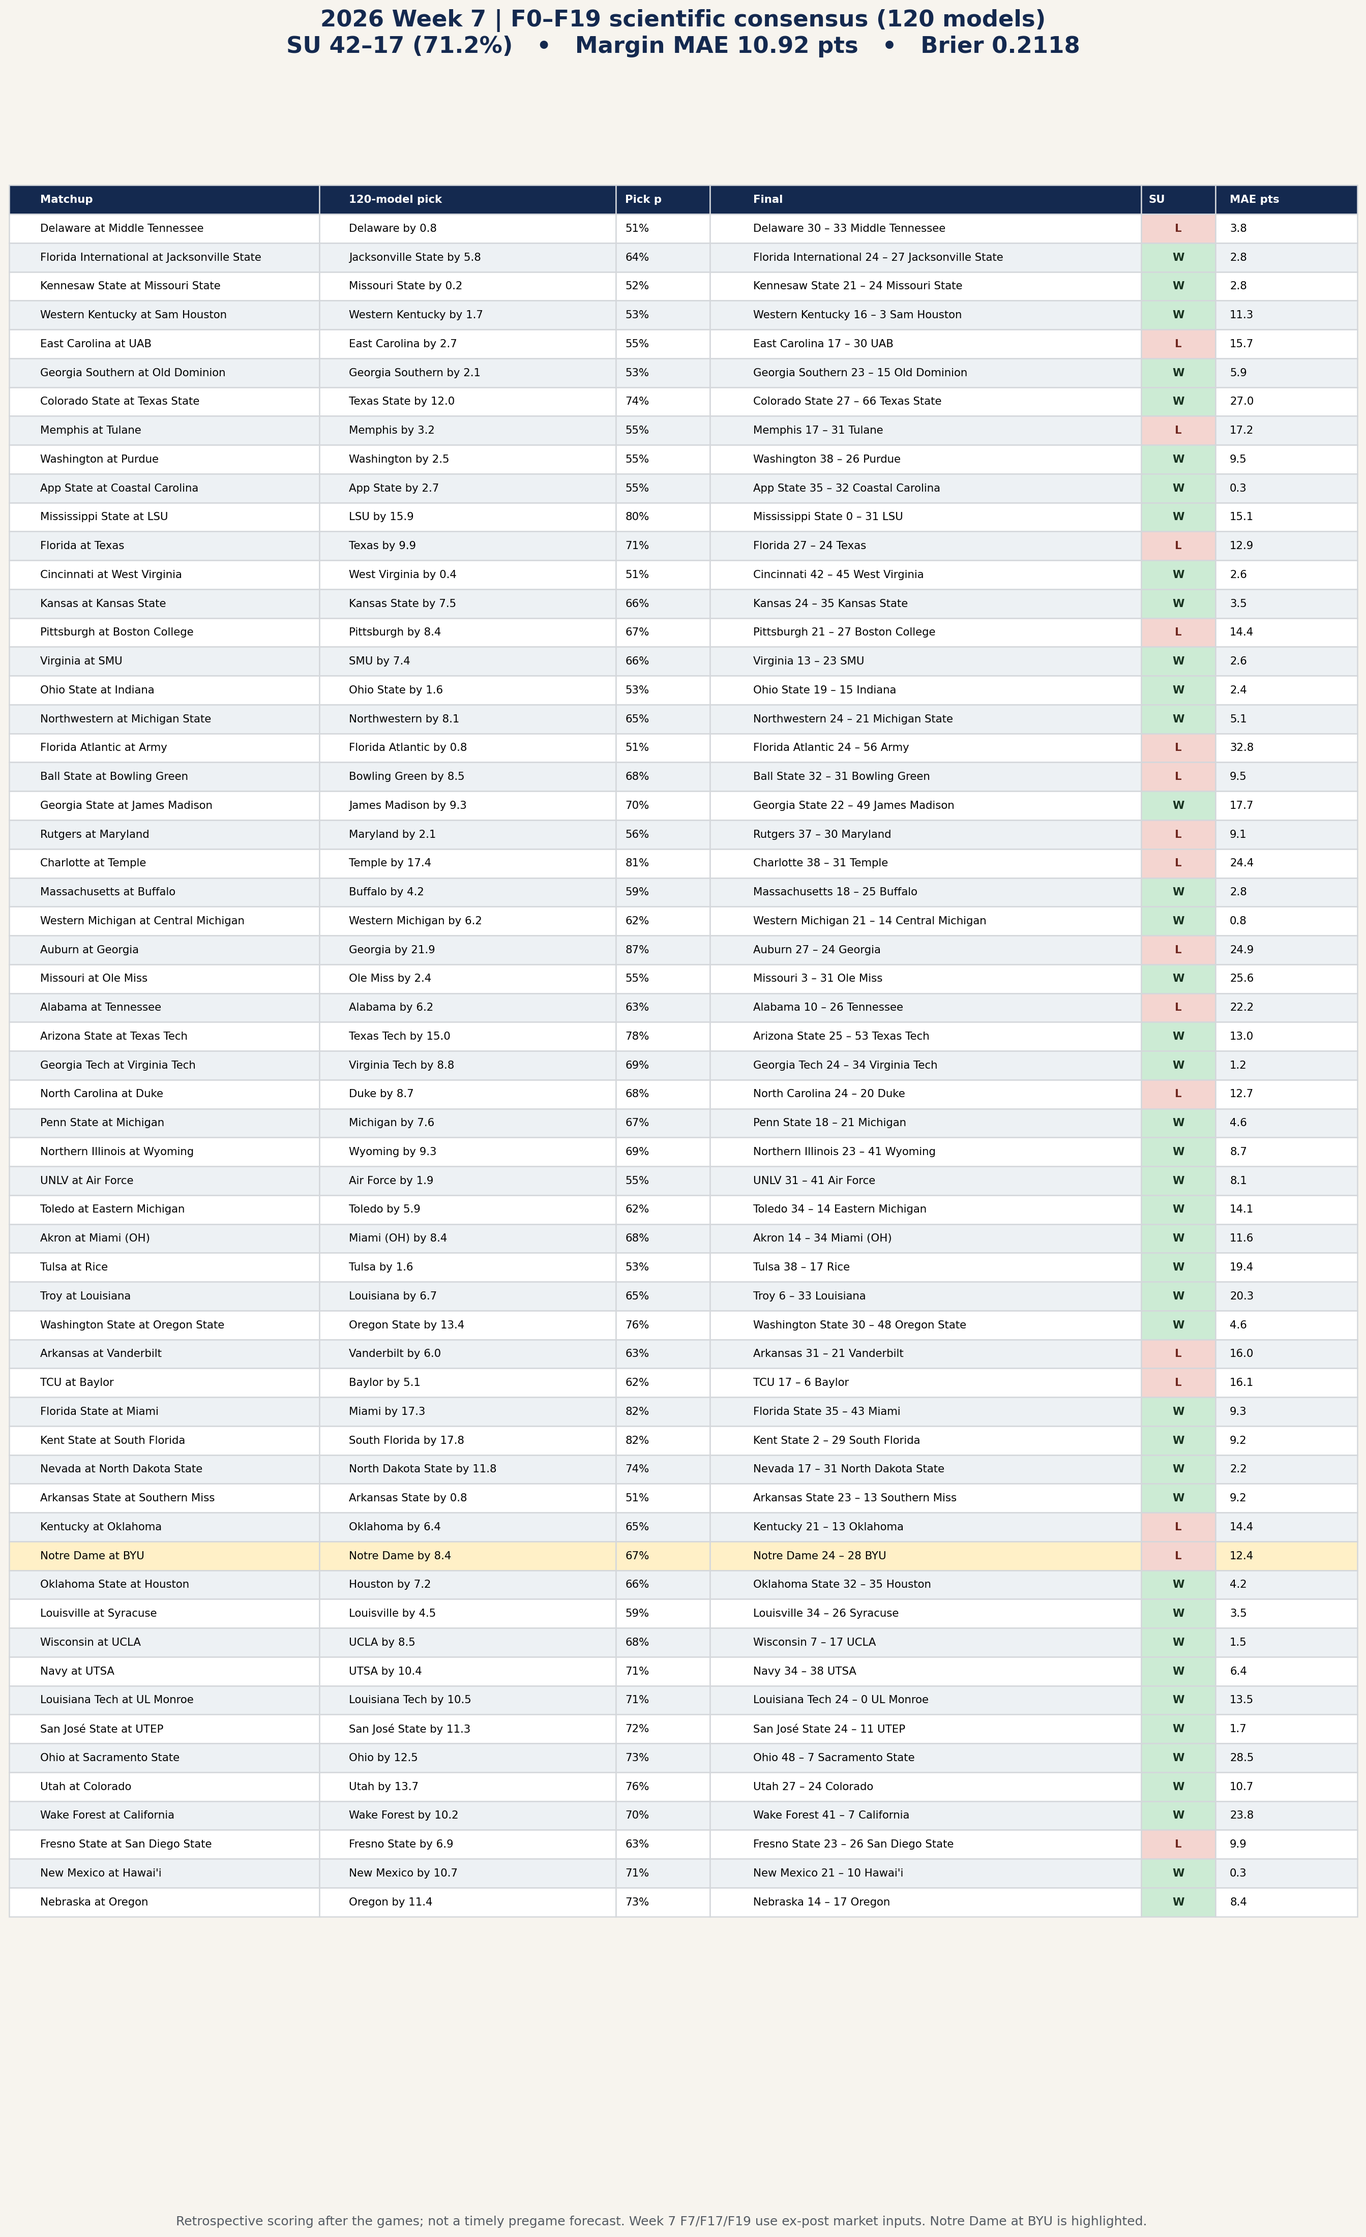
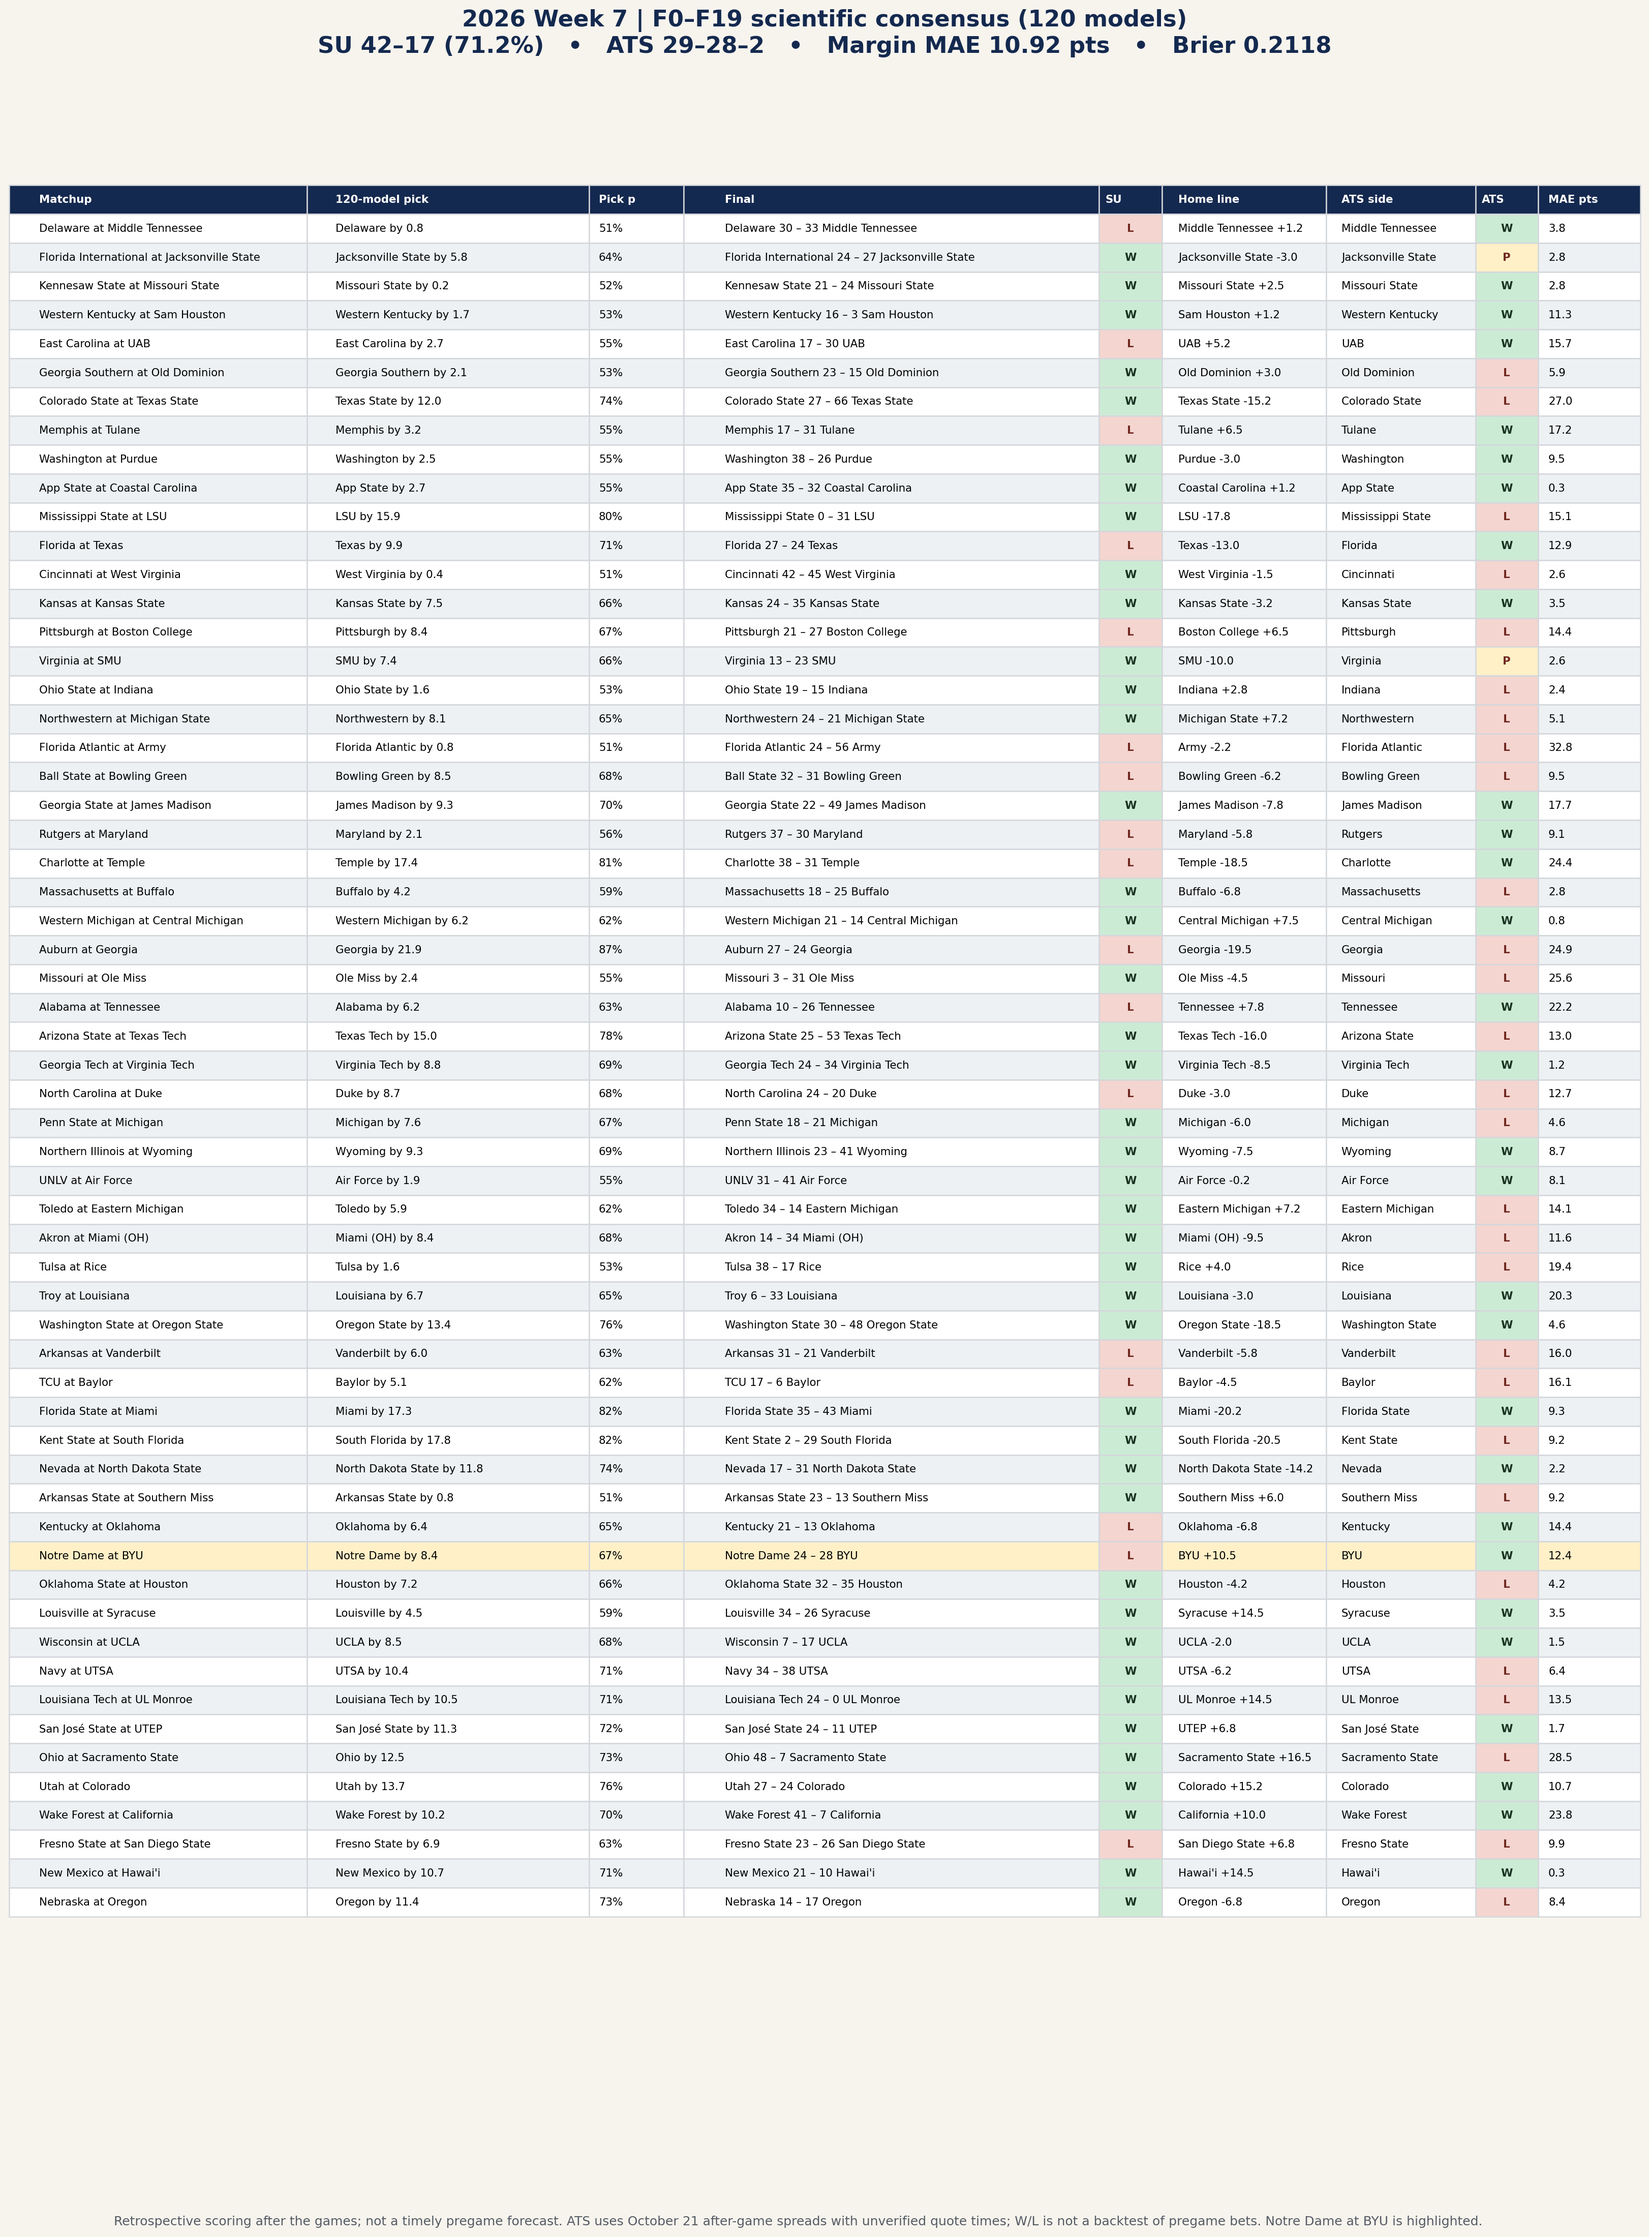
Add Week 7 ATS grading and align full scientific scorecard

diff --git a/scripts/publication/plot_2026_week07_120_consensus_scorecard.py b/scripts/publication/plot_2026_week07_120_consensus_scorecard.py
@@ -15,6 +15,7 @@ REPLAY = ROOT / "publication/2026/week_07/post_game/retrospective_replay"
 SCORED = REPLAY / "cumulative/scientific_f0_f19/common_120_consensus_game_results.csv"
 GAMES = REPLAY / "week07_replay_consensus_games.csv"
 OUTPUT = REPLAY / "scientific/full_f0_f19"
+MARKET = OUTPUT / "f17_f19_market_snapshot.parquet"
 
 
 def main() -> None:
@@ -30,6 +31,13 @@ def main() -> None:
         raise ValueError("Notre Dame at BYU is missing")
     if not (card.actual_home_margin == card.home_points - card.away_points).all():
         raise ValueError("Stored outcomes and game results disagree")
+    lines = pd.read_parquet(MARKET)[
+        ["target_game_id", "market_home_spread", "market_provenance"]
+    ].rename(columns={"target_game_id": "game_id"})
+    lines = lines.loc[lines.market_provenance.eq("ex_post_oct21_cache_unverified_quote_time")]
+    card = card.merge(lines, on="game_id", validate="one_to_one")
+    if len(card) != 59 or card.market_home_spread.isna().any():
+        raise ValueError("The 59 Week 7 retrospective market spreads are incomplete")
 
     card["predicted_winner"] = card.home_team.where(card.pred_home_margin.ge(0), card.away_team)
     card["predicted_winner_probability"] = card.pred_home_win_probability.where(
@@ -45,21 +53,40 @@ def main() -> None:
     card["su"] = card.winner_correct.map({True: "W", False: "L"})
     card["margin_error_points"] = card.margin_error.map("{:.1f}".format)
     card["pick_confidence"] = card.predicted_winner_probability.map("{:.0%}".format)
+    model_cover_margin = card.pred_home_margin + card.market_home_spread
+    actual_cover_margin = card.actual_home_margin + card.market_home_spread
+    card["ats_side"] = card.home_team.where(model_cover_margin.gt(0), card.away_team)
+    card.loc[model_cover_margin.eq(0), "ats_side"] = "—"
+    card["ats_result"] = "—"
+    decided = model_cover_margin.ne(0) & actual_cover_margin.ne(0)
+    card.loc[decided, "ats_result"] = (
+        model_cover_margin.loc[decided].gt(0).eq(actual_cover_margin.loc[decided].gt(0))
+        .map({True: "W", False: "L"})
+    )
+    card.loc[model_cover_margin.ne(0) & actual_cover_margin.eq(0), "ats_result"] = "P"
+    card["market_line"] = card.home_team + " " + card.market_home_spread.map("{:+.1f}".format)
+    card.loc[card.market_home_spread.eq(0), "market_line"] = "Pick'em"
     OUTPUT.mkdir(parents=True, exist_ok=True)
     card.to_csv(OUTPUT / "week07_120_model_consensus_scorecard.csv", index=False)
 
-    columns = ["matchup", "prediction", "pick_confidence", "final", "su", "margin_error_points"]
+    columns = ["matchup", "prediction", "pick_confidence", "final", "su", "market_line",
+               "ats_side", "ats_result", "margin_error_points"]
     display = card[columns].rename(columns={
         "matchup": "Matchup", "prediction": "120-model pick", "pick_confidence": "Pick p",
-        "final": "Final", "su": "SU", "margin_error_points": "MAE pts",
+        "final": "Final", "su": "SU", "market_line": "Home line", "ats_side": "ATS side",
+        "ats_result": "ATS", "margin_error_points": "MAE pts",
     })
     wins = int(card.winner_correct.sum())
-    fig, ax = plt.subplots(figsize=(19, 27))
+    ats_wins = int(card.ats_result.eq("W").sum())
+    ats_losses = int(card.ats_result.eq("L").sum())
+    ats_pushes = int(card.ats_result.eq("P").sum())
+    fig, ax = plt.subplots(figsize=(23, 27))
     fig.patch.set_facecolor("#f7f4ee")
     ax.axis("off")
     table = ax.table(
         cellText=display.values, colLabels=display.columns, cellLoc="left", colLoc="left",
-        colWidths=[0.23, 0.22, 0.07, 0.32, 0.055, 0.105], bbox=[0.0, 0.035, 1.0, 0.91],
+        colWidths=[0.19, 0.18, 0.06, 0.265, 0.04, 0.105, 0.095, 0.04, 0.065],
+        bbox=[0.0, 0.035, 1.0, 0.91],
     )
     table.auto_set_font_size(False)
     table.set_fontsize(8.5)
@@ -71,26 +98,29 @@ def main() -> None:
         else:
             highlighted = card.iloc[row - 1].game_id == 401856809
             cell.set_facecolor("#fff0c7" if highlighted else ("#ffffff" if row % 2 else "#edf1f4"))
-            if col == 4:
-                correct = bool(card.iloc[row - 1].winner_correct)
-                cell.set_facecolor("#ccebd4" if correct else "#f4d5d0")
-                cell.set_text_props(weight="bold", ha="center", color="#183321" if correct else "#702820")
+            if col in (4, 7):
+                result = card.iloc[row - 1].su if col == 4 else card.iloc[row - 1].ats_result
+                cell.set_facecolor({"W": "#ccebd4", "L": "#f4d5d0", "P": "#fff0c7", "—": "#e8e8e8"}[result])
+                cell.set_text_props(weight="bold", ha="center", color="#183321" if result == "W" else "#702820")
     ax.set_title(
         "2026 Week 7 | F0–F19 scientific consensus (120 models)\n"
         f"SU {wins}–{len(card)-wins} ({wins/len(card):.1%})   •   "
+        f"ATS {ats_wins}–{ats_losses}–{ats_pushes}   •   "
         f"Margin MAE {card.margin_error.mean():.2f} pts   •   Brier {card.brier_error.mean():.4f}",
         fontsize=18, weight="bold", color="#14294f", pad=22,
     )
     fig.text(
         0.5, 0.012,
         "Retrospective scoring after the games; not a timely pregame forecast. "
-        "Week 7 F7/F17/F19 use ex-post market inputs. Notre Dame at BYU is highlighted.",
+        "ATS uses October 21 after-game spreads with unverified quote times; W/L is not a backtest of pregame bets. "
+        "Notre Dame at BYU is highlighted.",
         ha="center", fontsize=10, color="#555b63",
     )
     path = OUTPUT / "week07_120_model_consensus_scorecard.png"
     fig.savefig(path, dpi=180, bbox_inches="tight", facecolor=fig.get_facecolor())
     plt.close(fig)
-    print(f"{path}: {len(card)} games, {wins} correct, MAE {card.margin_error.mean():.4f}, Brier {card.brier_error.mean():.4f}")
+    print(f"{path}: {len(card)} games, SU {wins}-{len(card)-wins}, ATS {ats_wins}-{ats_losses}-{ats_pushes}, "
+          f"MAE {card.margin_error.mean():.4f}, Brier {card.brier_error.mean():.4f}")
 
 
 if __name__ == "__main__":

diff --git a/scripts/publication/publish_2026_week06_07_f0_f19_backfill.py b/scripts/publication/publish_2026_week06_07_f0_f19_backfill.py
@@ -199,8 +199,11 @@ def scorecard(performance: pd.DataFrame, path: Path) -> None:
     table = performance.loc[performance.through_week.eq(7)].copy()
     table = pd.concat([table, performance.loc[performance.through_week.eq(6) & performance.series_type.eq("vegas")]], ignore_index=True)
     table["sort"] = table.series_type.map({"consensus": 0, "vegas": 1, "model": 2})
-    table = table.sort_values(["sort", "margin_mae", "model_name"])
+    table = table.sort_values(["sort", "margin_mae", "model_name"]).reset_index(drop=True)
+    ranks = table.series_type.eq("model").cumsum().astype(str)
+    ranks.loc[~table.series_type.eq("model")] = "—"
     labels = pd.DataFrame({
+        "Rank": ranks,
         "Model": table.model_name.str.replace("scientific_", "", regex=False),
         "Games": table.games.astype(str), "Brier n": table.brier_games.astype(str),
         "MAE": table.margin_mae.map(lambda x: f"{x:.2f}"),
@@ -208,21 +211,21 @@ def scorecard(performance: pd.DataFrame, path: Path) -> None:
         "SU %": table.su_accuracy.map(lambda x: f"{x:.1%}"),
         "Brier": table.brier_score.map(lambda x: f"{x:.3f}"),
     })
-    fig, ax = plt.subplots(figsize=(13, max(20, len(labels) * .31 + 3)), facecolor="#F7F4ED")
+    fig, ax = plt.subplots(figsize=(16, max(10, len(labels) * .38 + 2.5)), facecolor="#F7F4ED")
     ax.axis("off")
     artist = ax.table(cellText=labels.values, colLabels=labels.columns, cellLoc="left", colLoc="left",
-                      bbox=[0, .035, 1, .93], colWidths=[.4, .08, .08, .09, .13, .1, .1])
+                      bbox=[0, .035, 1, .91], colWidths=[.055, .39, .07, .07, .08, .1, .1, .1])
     artist.auto_set_font_size(False)
     artist.set_fontsize(9)
     for (row, _), cell in artist.get_celld().items():
         cell.set_edgecolor("#D4D7DB")
-        cell.set_facecolor("#22324A" if row == 0 else "#FDE2F0" if row == 1 else "#EEE5CF" if row == 2 else "#FFFFFF" if row % 2 else "#EEF2F5")
+        cell.set_facecolor("#22324A" if row == 0 else "#FDE2F0" if row == 1 else "#EEF2F5" if row == 2 else "#FFFFFF" if row % 2 else "#EEF2F5")
         if row == 0:
             cell.set_text_props(color="white", weight="bold")
-    ax.set_title("2026 F0–F19 · cumulative scorecard through Week 7", fontsize=18, weight="bold", pad=14)
-    fig.text(.5, .009, "Model/consensus: 380 common games, including retrospective Weeks 6–7. Vegas: archived through Week 6 only; Week 7 F7/F17/F19 market inputs were retrieved after games.",
+    ax.set_title("2026 Scientific F0–F19 roster · cumulative through Week 7", fontsize=19, weight="bold", pad=16)
+    fig.text(.5, .008, "Model/consensus: 380 common games including retrospective Weeks 6–7. Vegas stops at Week 6. Brier n shows valid probabilities. ATS is omitted; Week 7 F7/F17/F19 market inputs were retrieved after games.",
              ha="center", fontsize=9)
-    fig.savefig(path, dpi=170, bbox_inches="tight", facecolor=fig.get_facecolor())
+    fig.savefig(path, dpi=180, bbox_inches="tight", facecolor=fig.get_facecolor())
     plt.close(fig)
 
 
